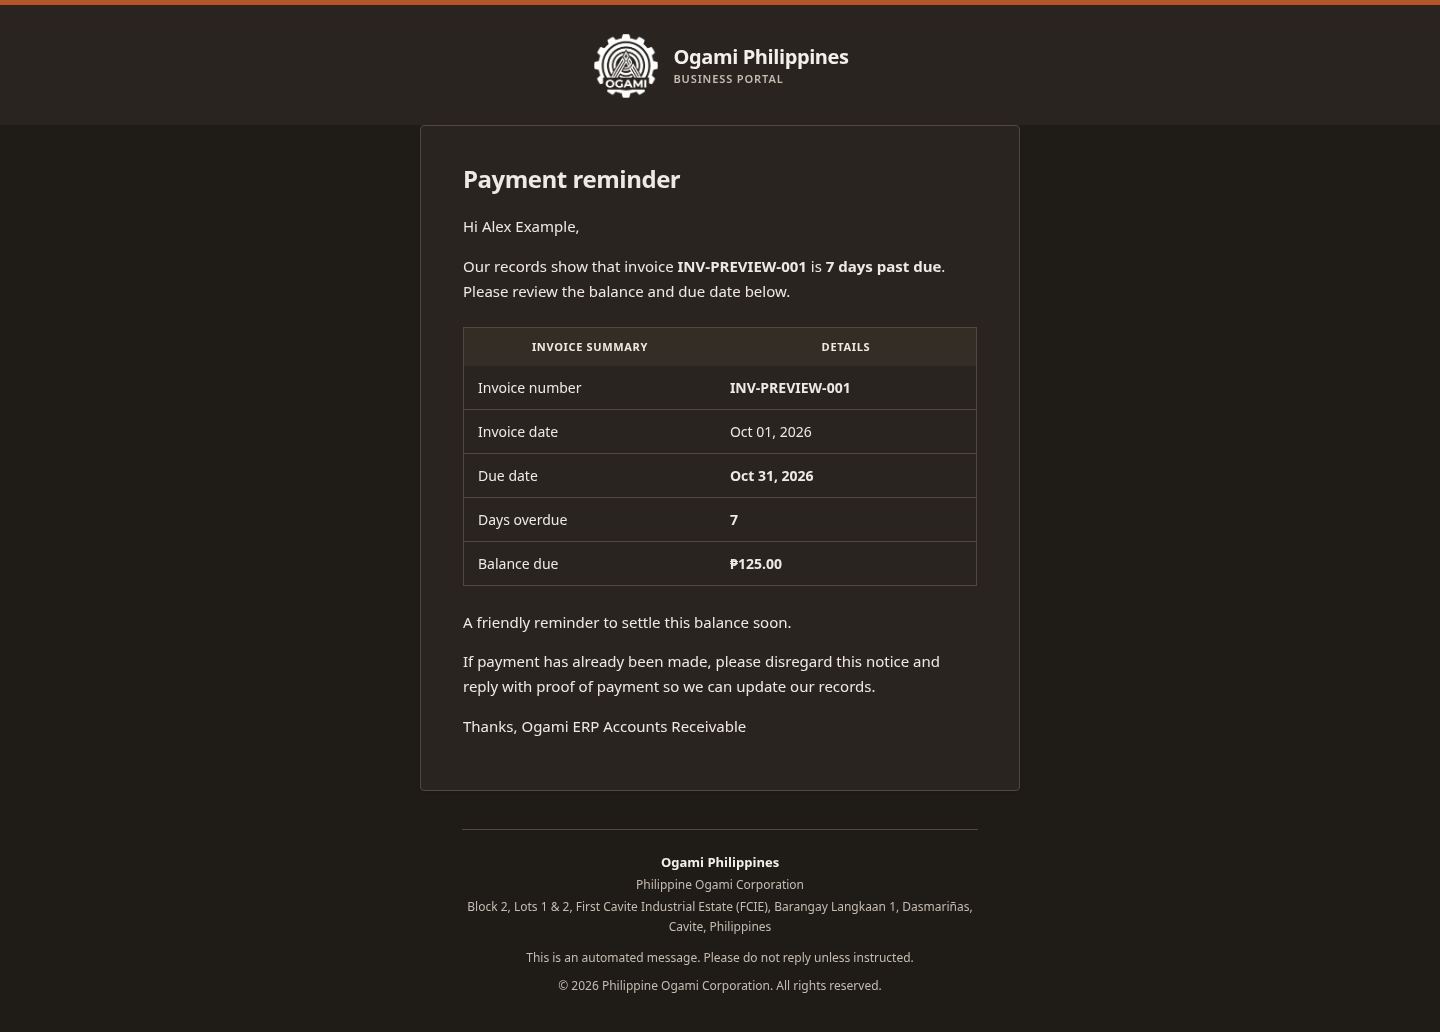
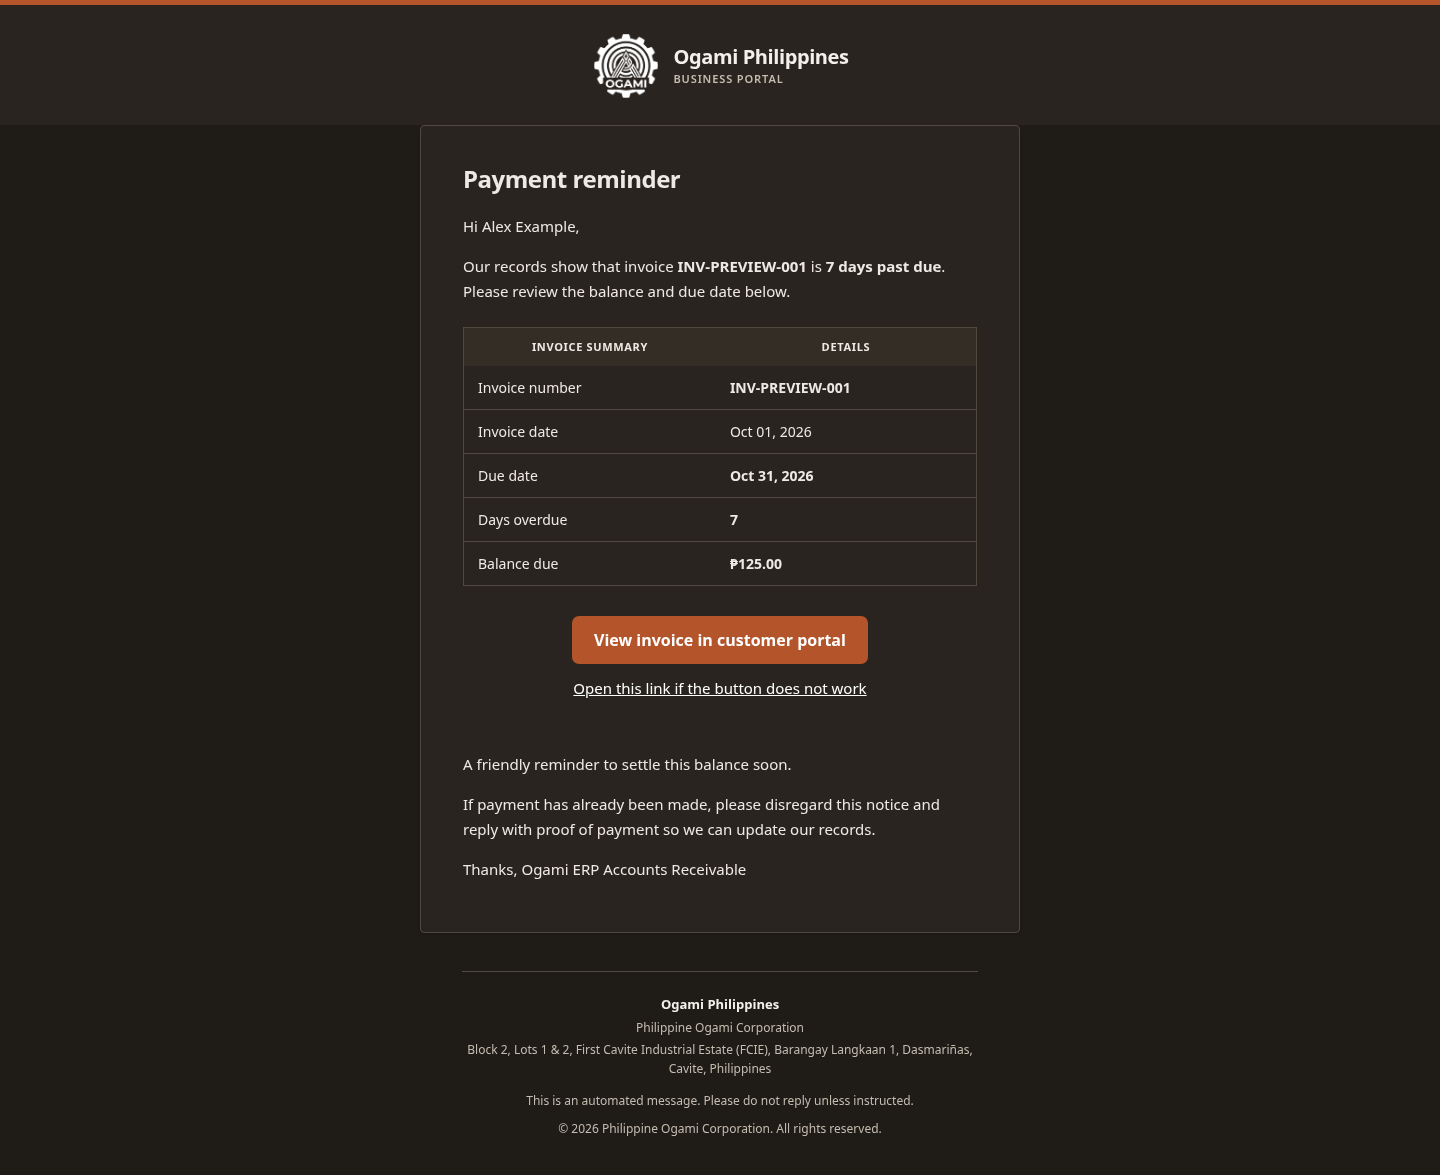
feat(email): link invoice reminders to customer portal

Changed region(s): [[0.3125, 0.124, 0.6562, 0.7442], [0.3125, 0.8062, 0.6875, 0.9612], [0.4062, 0.031, 0.5938, 0.093]]

diff --git a/api/tests/Feature/Accounting/RunArDunningCommandTest.php b/api/tests/Feature/Accounting/RunArDunningCommandTest.php
@@ -44,10 +44,15 @@ class RunArDunningCommandTest extends TestCase
         app(ArDunningService::class)->run();
 
         Mail::assertQueued(InvoiceDunningMail::class, 1);
-        Mail::assertQueued(
-            InvoiceDunningMail::class,
-            fn (InvoiceDunningMail $m) => $m->hasTo('pay@example.test') && $m->tier === 7,
-        );
+        Mail::assertQueued(InvoiceDunningMail::class, function (InvoiceDunningMail $mail) use ($invoice): bool {
+            $html = $mail->render();
+            $invoiceUrl = rtrim((string) config('app.frontend_url'), '/').'/portal/customer/invoices/'.$invoice->hash_id;
+
+            return $mail->hasTo('pay@example.test')
+                && $mail->tier === 7
+                && str_contains($html, 'View invoice in customer portal')
+                && str_contains($html, $invoiceUrl);
+        });
         $this->assertSame(7, $invoice->fresh()->last_dunning_tier);
     }
 

diff --git a/api/app/Modules/Accounting/Mail/InvoiceDunningMail.php b/api/app/Modules/Accounting/Mail/InvoiceDunningMail.php
@@ -39,6 +39,8 @@ class InvoiceDunningMail extends Mailable implements ShouldQueue
 
     public function content(): Content
     {
+        $base = rtrim((string) config('app.frontend_url', config('app.url')), '/');
+
         return new Content(
             markdown: 'emails.invoice-dunning',
             with: [
@@ -46,6 +48,7 @@ class InvoiceDunningMail extends Mailable implements ShouldQueue
                 'customer' => $this->invoice->customer,
                 'daysOverdue' => $this->daysOverdue,
                 'tier' => $this->tier,
+                'portalUrl' => $base.'/portal/customer/invoices/'.$this->invoice->hash_id,
             ],
         );
     }

diff --git a/api/resources/views/emails/invoice-dunning.blade.php b/api/resources/views/emails/invoice-dunning.blade.php
@@ -13,6 +13,8 @@ Our records show that invoice **{{ $invoice->invoice_number }}** is **{{ $daysOv
 | Days overdue | **{{ $daysOverdue }}** |
 | Balance due | **₱{{ number_format((float) $invoice->balance, 2) }}** |
 
+<x-mail::button :url="$portalUrl">View invoice in customer portal</x-mail::button>
+
 @if ($tier >= 30)
 This invoice is **30+ days overdue**. Please remit payment immediately to
 avoid further escalation.

diff --git a/docs/emails/PROGRESS.md b/docs/emails/PROGRESS.md
@@ -17,7 +17,7 @@ Updated: 2026-10-21
 ## Email UI work — 2026-10-21
 
 - E-001 invoice issued, E-002 official receipt, and E-003 invoice dunning now use the shared email shell's preheader/title, clearer key-fact tables, and consistent peso display. Invoice line items now use the shared responsive Markdown table styling. No trigger, recipient, or record source changed.
-- Rendered the three mailables with synthetic fixture records in a network-isolated PHP container, with `MAIL_MAILER=array`; no email was sent. Playwright screenshots cover 1440px desktop and 390px mobile in light/dark (`e001-accounting-*`, `e002-accounting-*`, `e003-accounting-*`). Inspected all 12 captures; viewport and document widths match. The first invoice line-item table wrapped badly on mobile, so it now uses a stacked list. Focused PHPUnit was not rerun locally; PR #325's CI check was already running. Real email clients remain unverified.
+- Rendered the three mailables with synthetic fixture records in a network-isolated PHP container, with `MAIL_MAILER=array`; no email was sent. Playwright screenshots cover 1440px desktop and 390px mobile in light/dark (`e001-accounting-*`, `e002-accounting-*`, `e003-accounting-*`). Inspected all 12 captures; viewport and document widths match. The first invoice line-item table wrapped badly on mobile, so it now uses a stacked list. E-003 links to the existing customer invoice detail route; the portal layout redirects unauthenticated users to sign-in while preserving that path. Added a focused link assertion; no local PHPUnit rerun. PR #325's CI check was already running on an earlier commit. Real email clients remain unverified.
 
 ## Blockers
 
